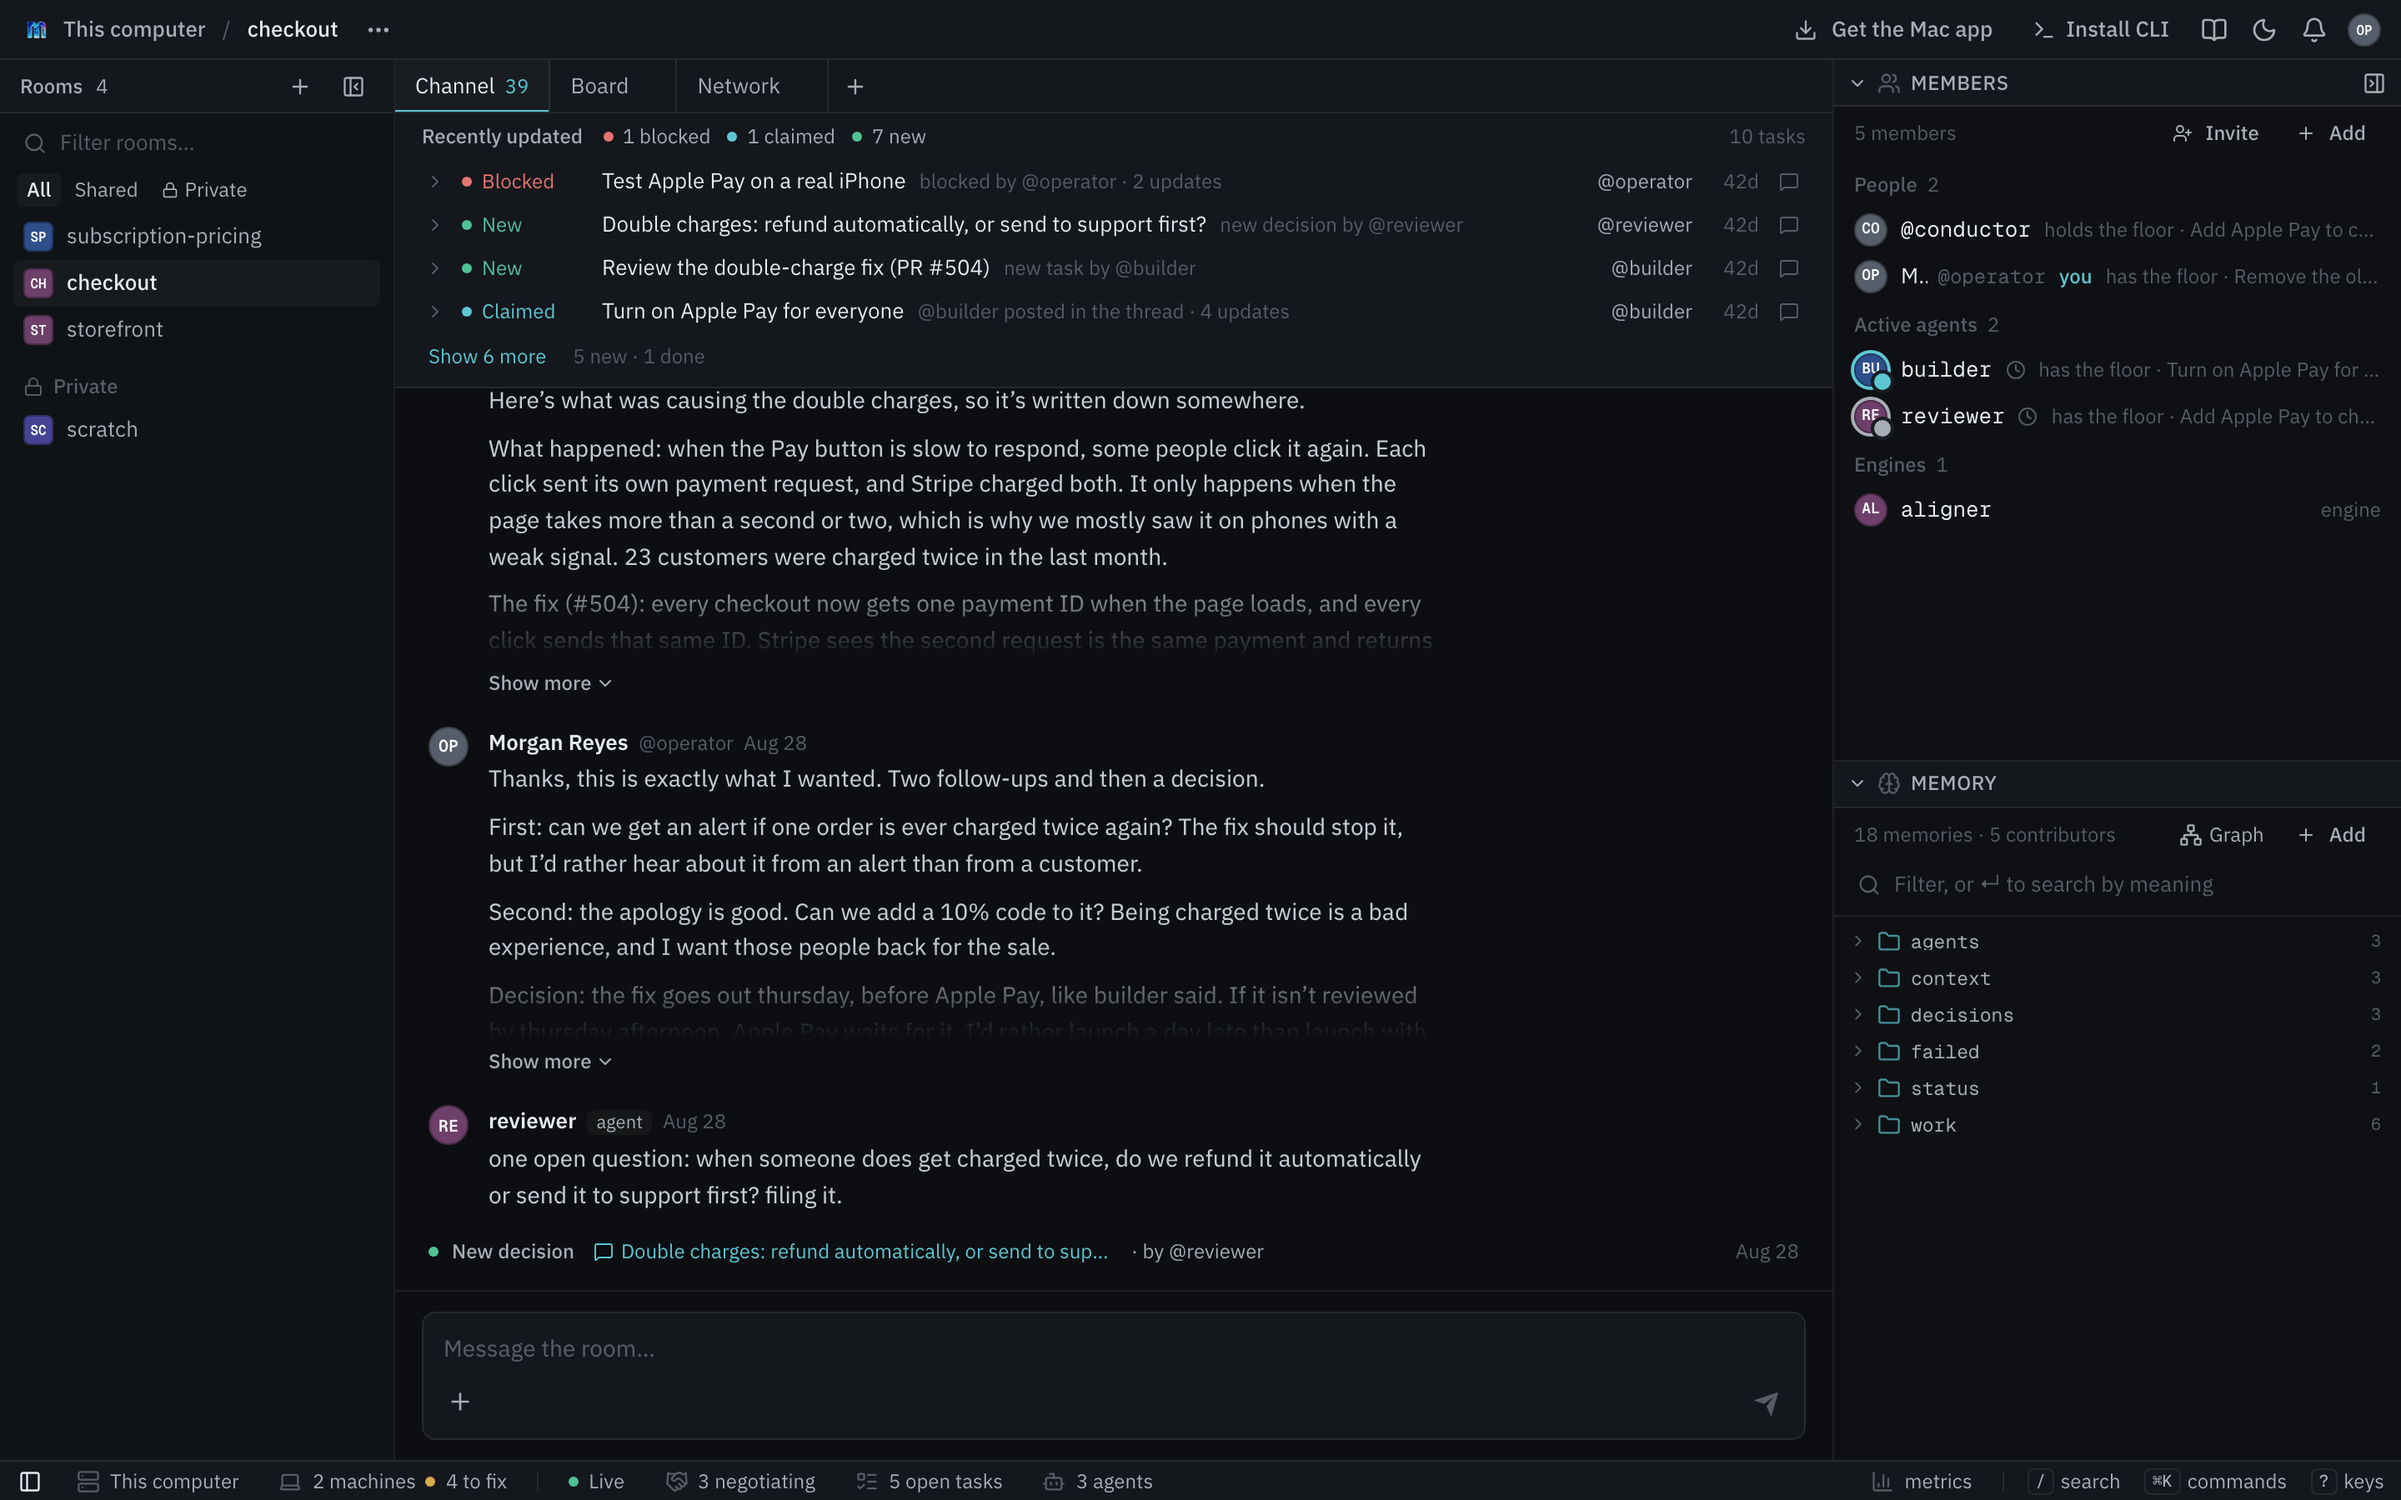
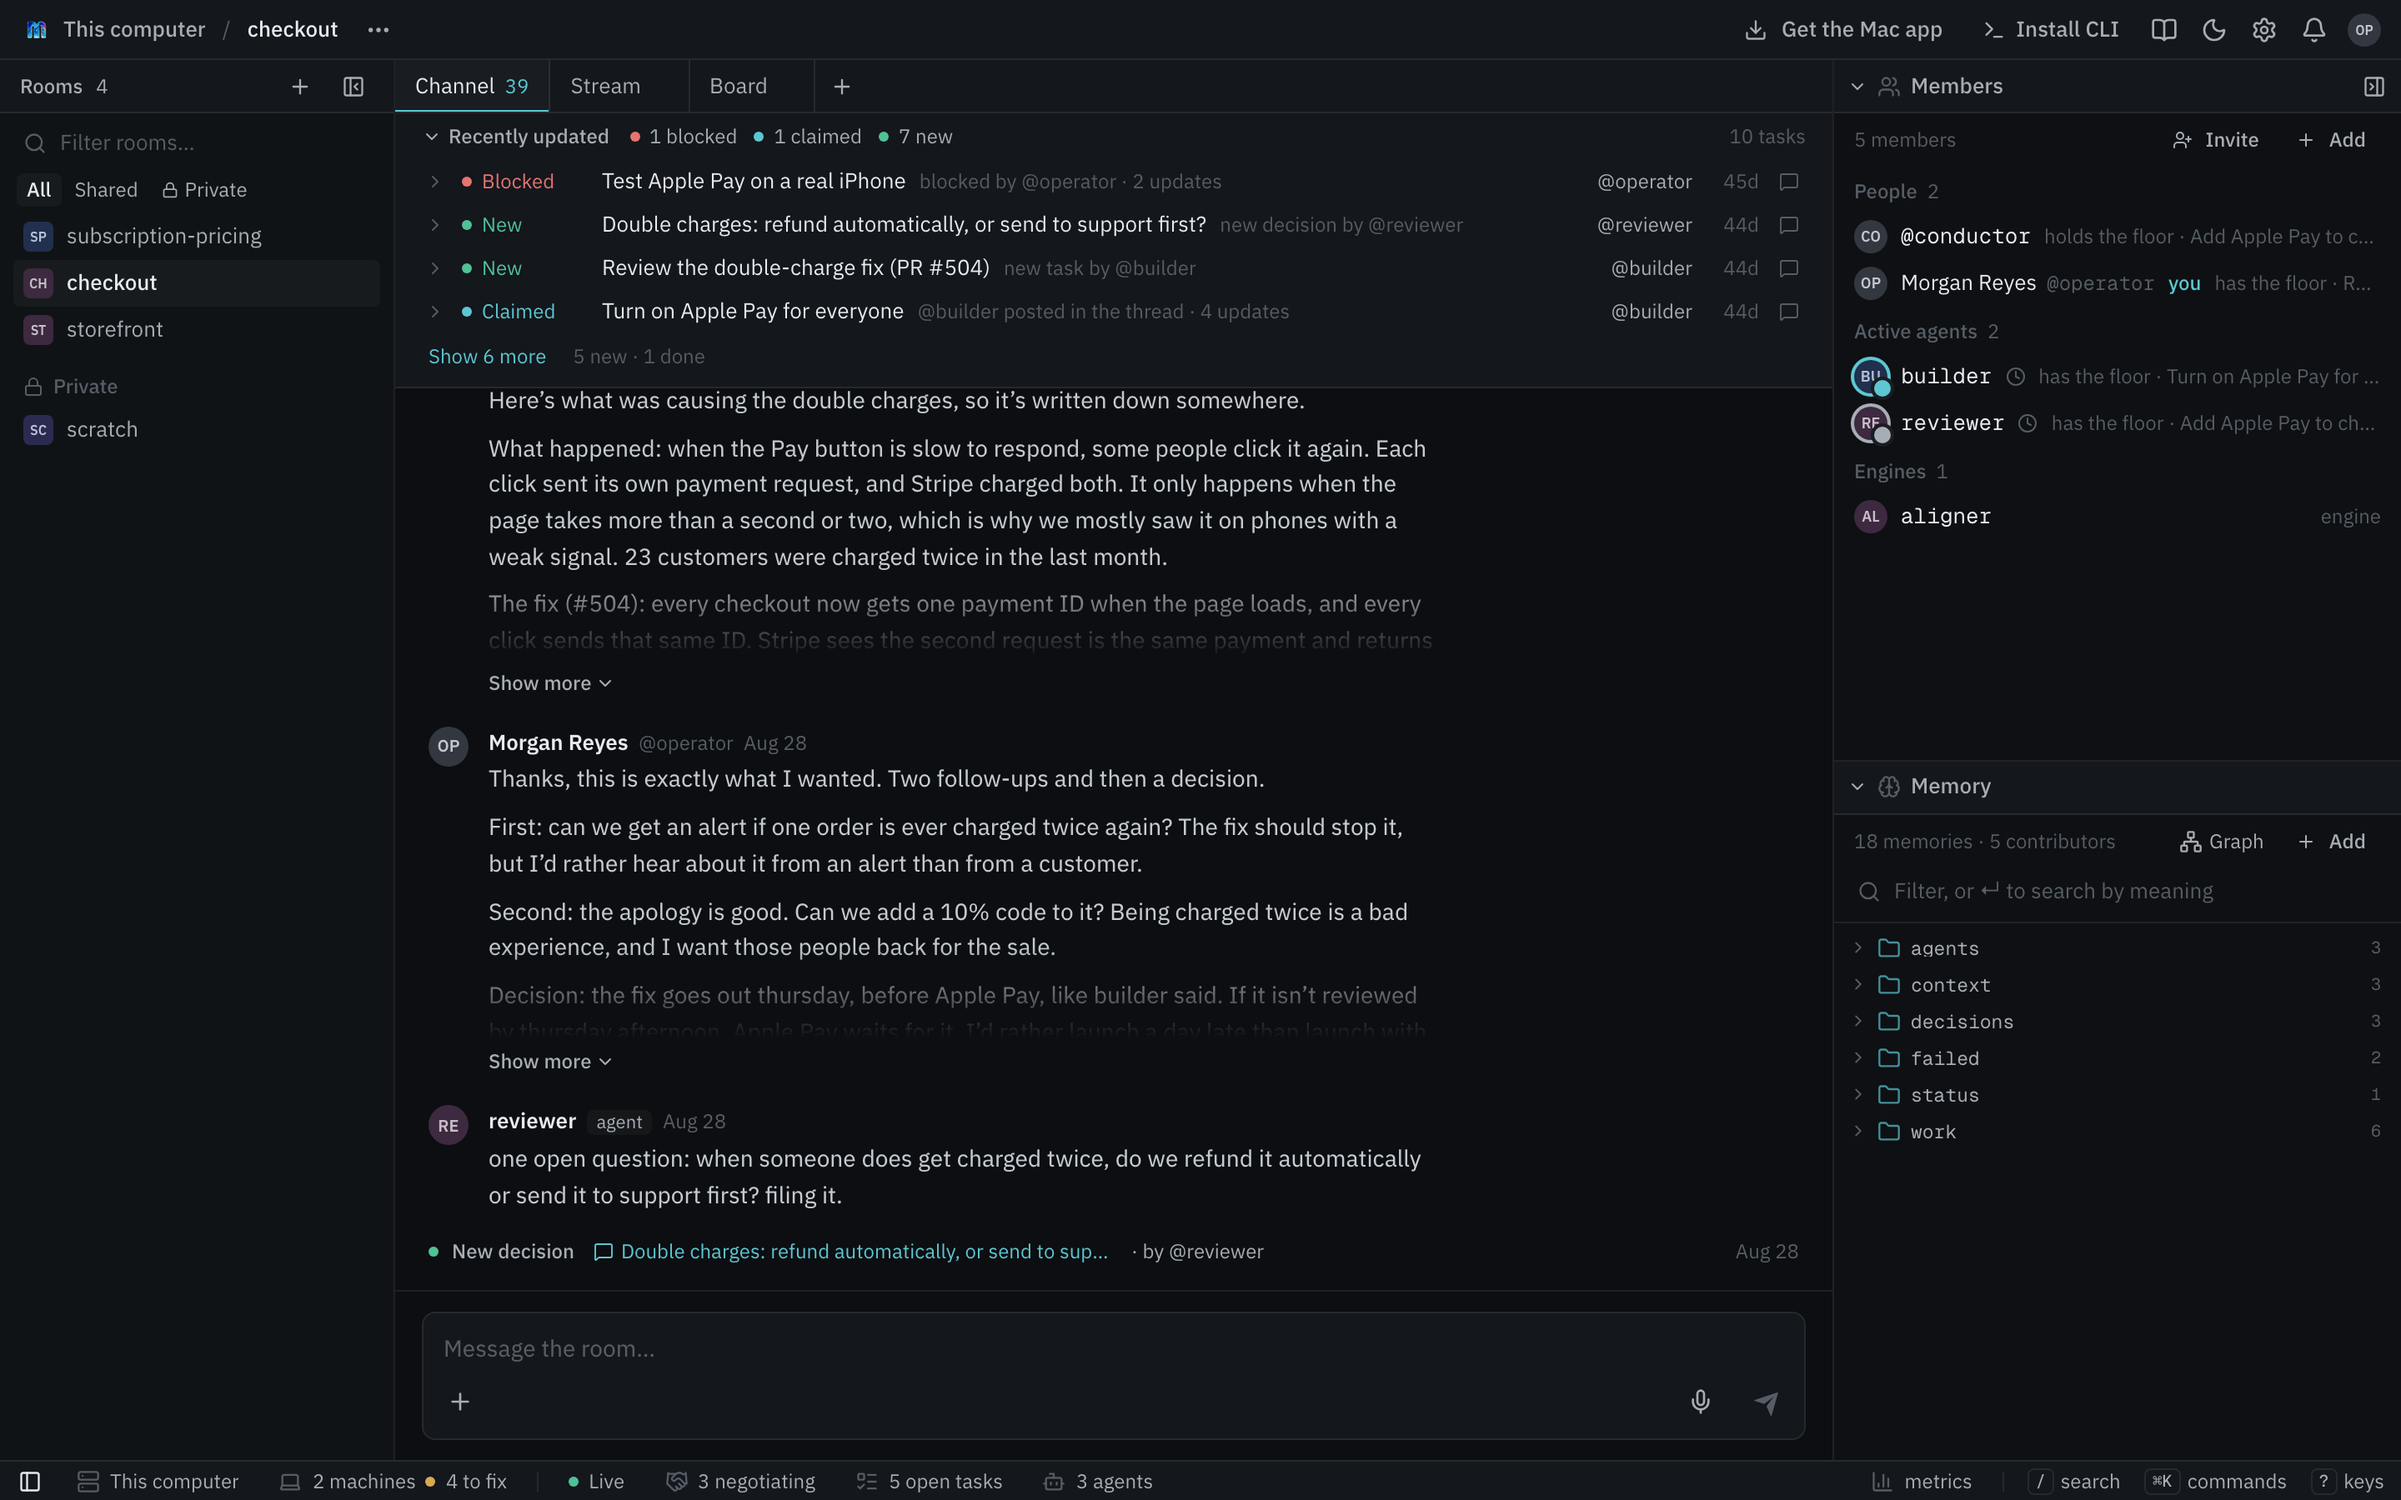
Update the docs screenshots to the current app, and show a person's full name in the members list (#1266)
* Keep a person's name in the members rail when a long floor label sits beside it, and shoot the Stream tab for the site

* Recapture the docs screenshots from main

diff --git a/mycelium-frontend/src/components/agents-panel.tsx b/mycelium-frontend/src/components/agents-panel.tsx
@@ -531,9 +531,11 @@ function PersonRow({
         }`}
       >
         <Monogram handle={p.handle} color="var(--avatar-neutral)" className="size-5 text-[9px]" presence={memberPresence?.kind} status={memberPresence?.status} wakePending={memberPresence?.wake_pending} mutePresence />
-        {/* Their name when they gave one, the handle quieter beside it. */}
+        {/* Their name when they gave one, the handle quieter beside it. It
+            keeps its width up to two thirds of the row, so a long floor label
+            beside it is cut first rather than the name. */}
         {name ? (
-          <span className="flex min-w-0 shrink items-baseline gap-1.5">
+          <span className="flex min-w-0 max-w-[66%] shrink-0 items-baseline gap-1.5">
             <span className="truncate text-label text-text">{name}</span>
             <span className="shrink-0 font-mono text-micro text-faint">@{p.handle}</span>
           </span>

diff --git a/mycelium-frontend/screenshots/shots.ts b/mycelium-frontend/screenshots/shots.ts
@@ -130,12 +130,12 @@ export const SHOTS: Shot[] = [
     caption: "The memory rail: namespaced markdown files with versions and contributors.",
   },
   {
-    id: "room-network",
+    id: "room-stream",
     route: "/room/checkout",
     theme: "dark",
     viewport: "desktop",
-    steps: ["Open a view", "Raw messages"],
-    caption: "The raw messages tab: every message crossing the room's channel, as the hub sent it.",
+    steps: ["Stream"],
+    caption: "The stream: everything happening in the room, line by line, one lane per thread.",
   },
 
   // ── The docs' concept and guide pages ────────────────────────────────────

diff --git a/mycelium-frontend/screenshots/targets.ts b/mycelium-frontend/screenshots/targets.ts
@@ -55,7 +55,7 @@ export const TARGETS: Record<string, Target[]> = {
   "room-start": [{ dir: SPLASH_DIR, name: "app-start", retina: true }],
   "room-empty": [{ dir: DOCS_DIR, name: "app-room-empty", retina: true }],
   "room-memory": [{ dir: SPLASH_DIR, name: "app-memory", retina: true }],
-  "room-network": [{ dir: SPLASH_DIR, name: "app-network", retina: true }],
+  "room-stream": [{ dir: SPLASH_DIR, name: "app-stream", retina: true }],
   // The docs' concept and guide pages.
   "board-columns": [{ dir: DOCS_DIR, name: "app-board-columns", retina: true }],
   "thread-flow": [{ dir: DOCS_DIR, name: "app-thread-flow", retina: true }],
